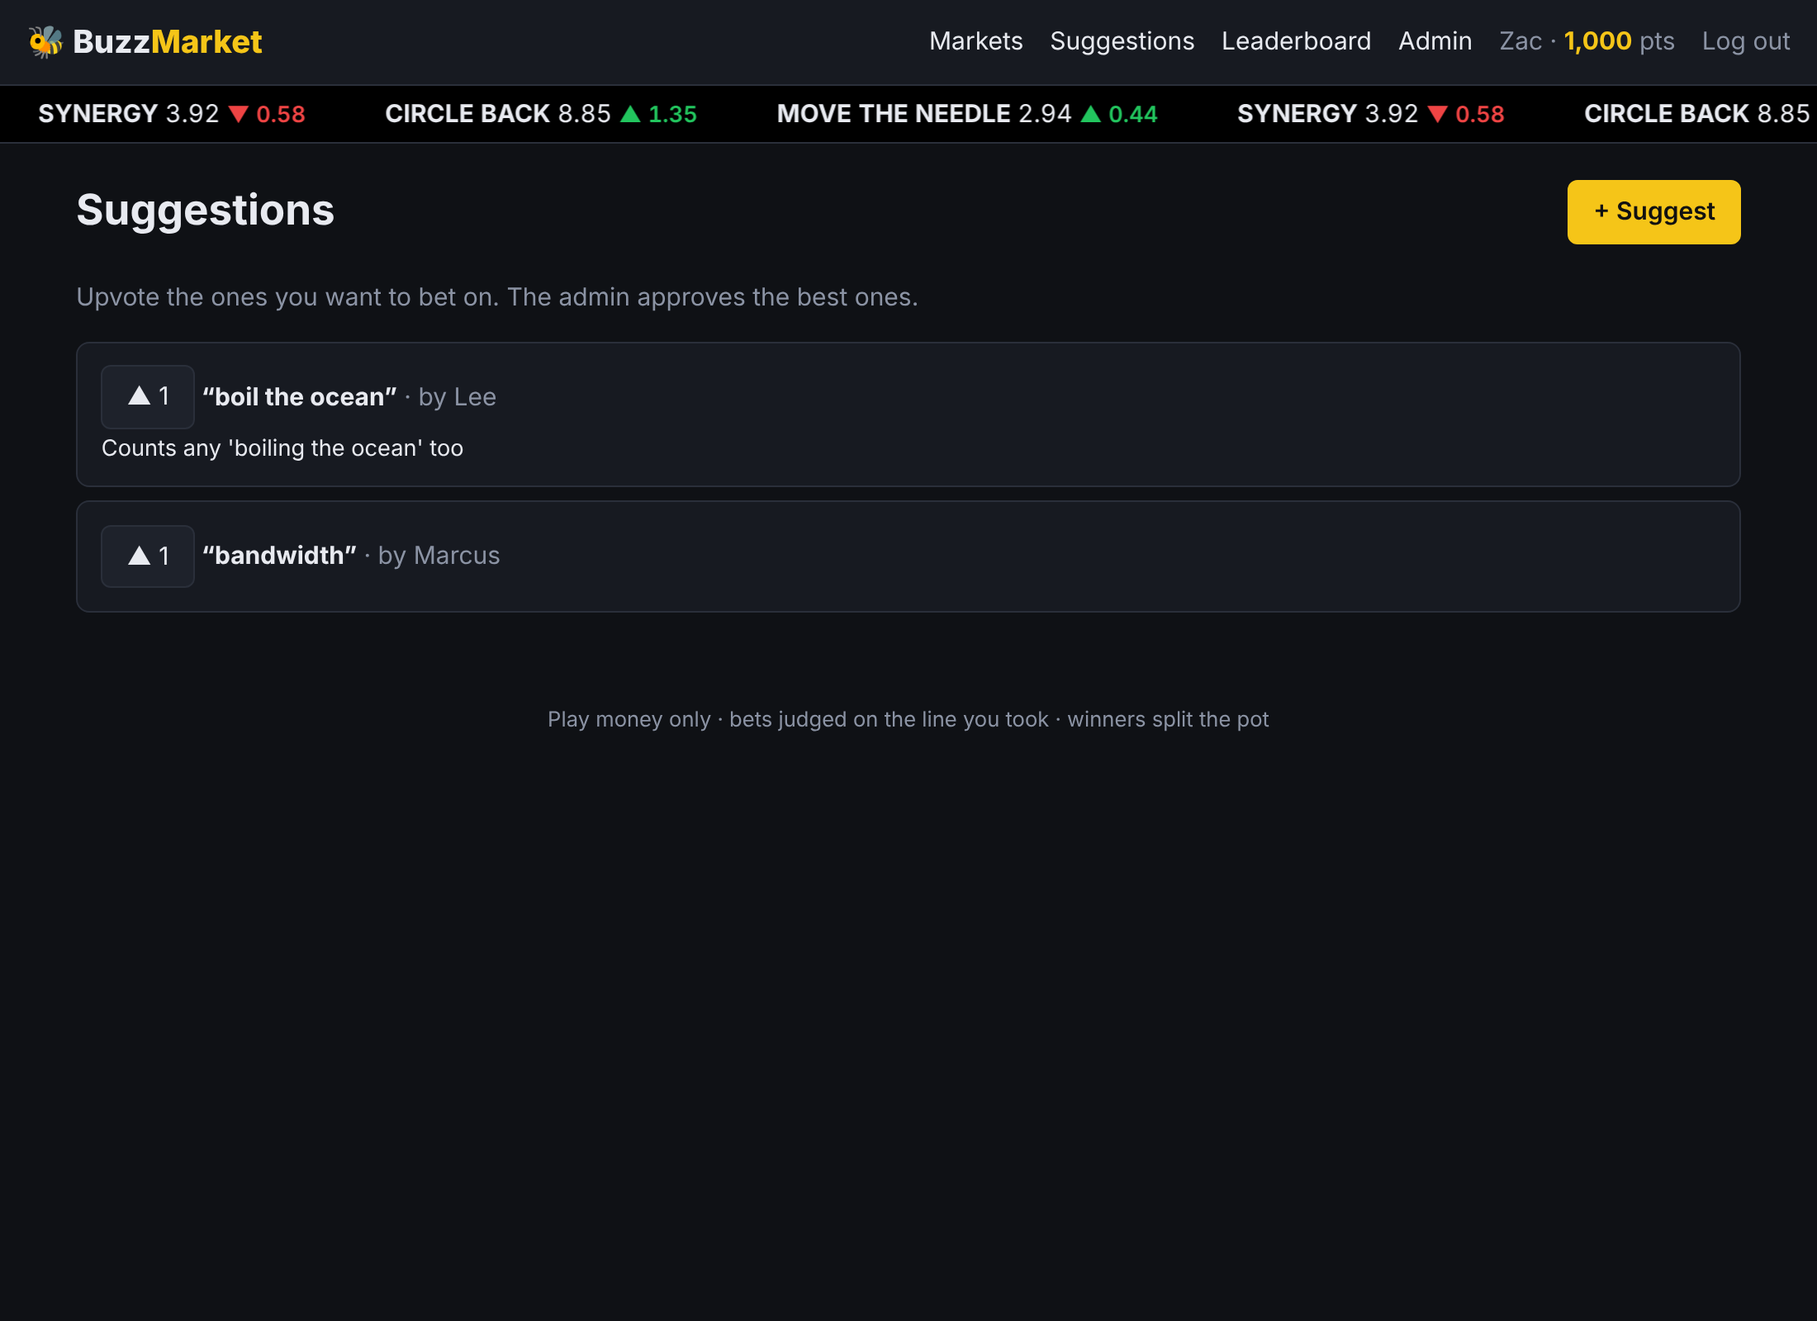
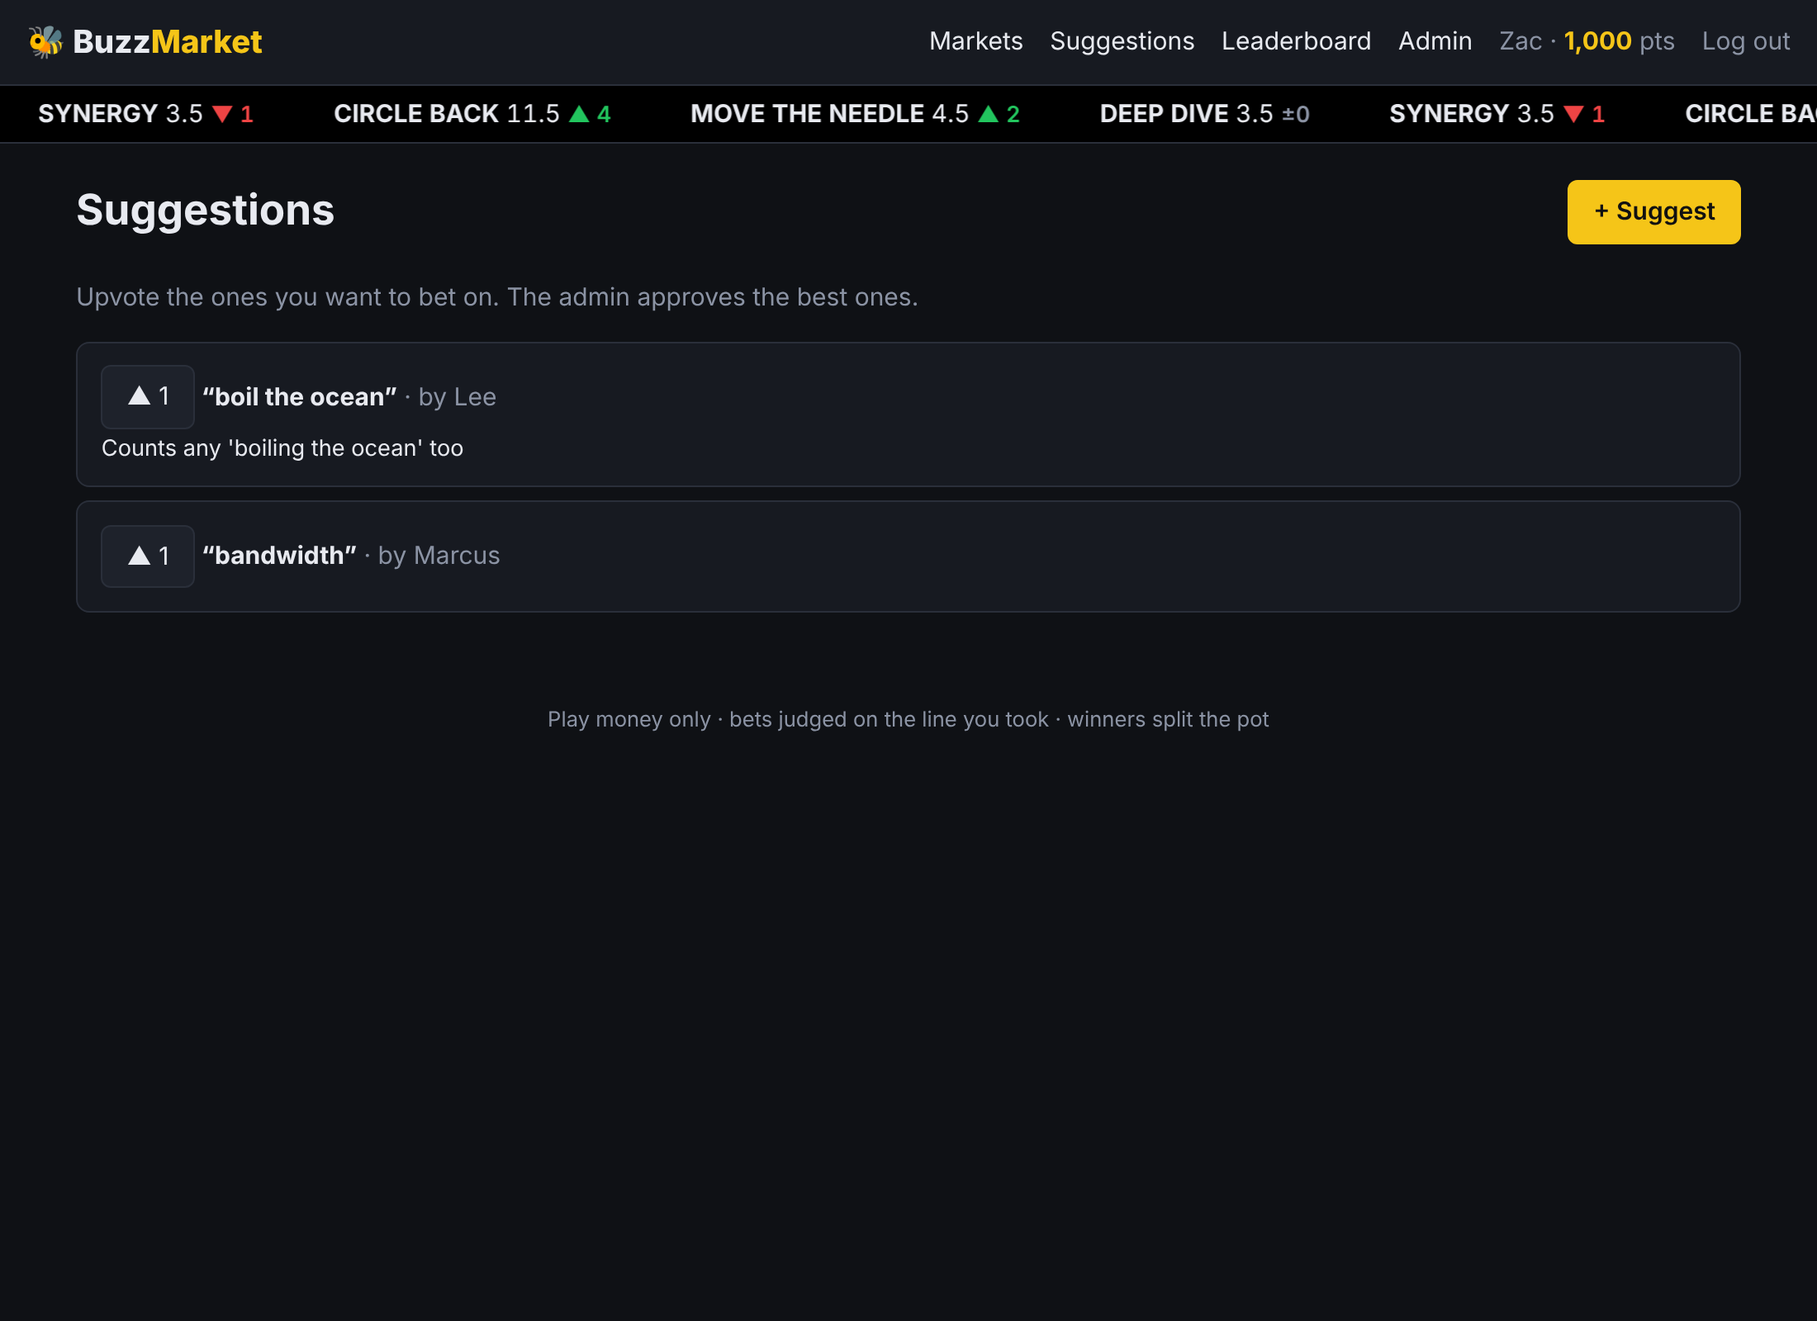
Keep lines on #.5 and move them in whole steps
Counts are whole numbers, so lines always sit on a half (no ties). Bets
build hidden pressure; the line jumps a full step when pressure crosses
the next whole number. Bet box shows points needed to tip it; chart
gridlines sit on #.5 values. Default step size is 400 net points.

Claude-Session: https://claude.ai/code/session_011Pia3449pt9Pwq98Fu3j73

Changed region(s): [[0.0927, 0.0625, 1.0, 0.0938]]

diff --git a/static/style.css b/static/style.css
@@ -70,7 +70,7 @@ button.vote.on { border-color: var(--accent); color: var(--accent); }
 .mpool { display: flex; gap: .8rem; font-size: .85rem; }
 .big { font-size: 1.8rem; font-weight: 700; font-variant-numeric: tabular-nums; }
 
-.chg { font-size: .85rem; font-weight: 600; font-variant-numeric: tabular-nums; }
+.chg { white-space: nowrap; font-size: .85rem; font-weight: 600; font-variant-numeric: tabular-nums; }
 .chg.up, .over, .win { color: var(--up); }
 .chg.down, .under, .lose { color: var(--down); }
 .chg.flat { color: var(--muted); }

diff --git a/buzz/views.py b/buzz/views.py
@@ -43,7 +43,7 @@ def change_badge(opening, line):
     if abs(d) < 0.005:
         return '<span class="chg flat">±0</span>'
     cls, arrow = ("up", "▲") if d > 0 else ("down", "▼")
-    return f'<span class="chg {cls}">{arrow} {abs(d):.2f}</span>'
+    return f'<span class="chg {cls}">{arrow} {fmt_line(abs(d))}</span>'
 
 
 def status_pill(status):
@@ -165,7 +165,7 @@ def home_page(req):
             action = ""
             if can:
                 action = (f'<form method="post" action="/m/{m["id"]}/guess" class="inline">{csrf_field(req)}'
-                          f'<input name="guess" type="number" step="0.5" min="0" placeholder="your guess" '
+                          f'<input name="guess" type="number" step="1" min="0" placeholder="your guess" '
                           f'value="{e(fmt_line(mine["guess"]) if mine else "")}" required>'
                           f'<button>{"Update" if mine else "Submit"}</button></form>')
             items.append(f'<li><a href="/m/{m["id"]}">“{e(m["phrase"])}”</a> '
@@ -216,6 +216,11 @@ def market_page(req, m):
         early_note = (f'<p class="early">🕐 Just opened: bets are capped at <b>{limit["max"]} pts</b> until '
                       f'{limit["early_bets"]} bets are in ({limit["left"]} to go), so nobody can yank the line early.</p>'
                       if limit["early"] else "")
+        move = market.points_to_move(m, db.get_int_setting(c, "liquidity"))
+        mv = [f'≈{pts(move["over"][0])} pts on <span class="over">over</span> moves it to {fmt_line(move["over"][1])}']
+        if move["under"]:
+            mv.append(f'≈{pts(move["under"][0])} pts on <span class="under">under</span> moves it to {fmt_line(move["under"][1])}')
+        move_note = f'<p class="small">Line moves in whole steps: {"; ".join(mv)}.</p>'
         mult_o = market.estimated_multiplier(pool, "over", 100)
         mult_u = market.estimated_multiplier(pool, "under", 100)
         parts.append(f"""<div class="card betbox">
@@ -228,8 +233,9 @@ def market_page(req, m):
       <button name="side" value="under" class="under">▼ Under {fmt_line(m['line'])}</button>
     </div>
   </form>
-  <p class="muted small">You have {pts(u['balance'])} pts. Your bet locks in the current line, then nudges the line
-  up (over) or down (under) for the next person. Rough payout if you win with 100 pts now:
+  {move_note}
+  <p class="muted small">You have {pts(u['balance'])} pts. Your bet locks in the current line. Bets push the line
+  up (over) or down (under) for the next person, one whole step at a time. Rough payout if you win with 100 pts now:
   over ≈ {mult_o:.2f}×, under ≈ {mult_u:.2f}×.</p>
 </div>""")
     elif m["status"] == "opening":
@@ -239,7 +245,7 @@ def market_page(req, m):
             parts.append(f"""<div class="card"><h2>Set the opening line</h2>
 <p>Blind guess: how many times will this be said? ({n} guesses so far.)</p>
 <form method="post" action="/m/{m['id']}/guess" class="row">{csrf_field(req)}<input type="hidden" name="next" value="/m/{m['id']}">
-<input name="guess" type="number" step="0.5" min="0" value="{e(fmt_line(mine['guess']) if mine else '')}" required>
+<input name="guess" type="number" step="1" min="0" value="{e(fmt_line(mine['guess']) if mine else '')}" required>
 <button class="primary">{'Update guess' if mine else 'Submit guess'}</button></form></div>""")
         else:
             parts.append(f'<div class="card"><p>Trusted users are setting the opening line ({n} guesses so far). '
@@ -383,11 +389,11 @@ def admin_page(req):
             f'<li id="m{m["id"]}"><b>“{e(m["phrase"])}”</b> <span class="muted">{e(m["meeting"])}</span>'
             f'<div class="small">Guesses: {glist}</div>'
             f'<div class="actions"><form method="post" action="/admin/m/{m["id"]}/open" class="inline">{csrf_field(req)}'
-            f'<input name="line" type="number" step="0.01" min="0" placeholder="line" value="{e(fmt_line(sug) if sug is not None else "")}">'
+            f'<input name="line" type="number" step="1" min="0.5" placeholder="e.g. 4.5" value="{e(fmt_line(sug) if sug is not None else "")}">'
             f'<button class="primary">Open betting</button></form>'
             f'{post_button(req, f"/admin/m/{m["id"]}/cancel", "Cancel", "danger", "Cancel this market?")}</div></li>')
     parts.append('<h2>Setting the opening line</h2><p class="muted small">Line defaults to the median guess '
-                 '(whole numbers get +0.5 so the opening line can’t tie). Edit it before opening if you like.</p>'
+                 '(rounded to the #.5 just above it, since counts are whole numbers). Edit it before opening if you like.</p>'
                  + (f'<ul class="list">{"".join(items)}</ul>' if opening else '<p class="muted">None.</p>'))
 
     # Live markets
@@ -414,7 +420,7 @@ def admin_page(req):
 <label>Phrase <input name="phrase" maxlength="80" required></label>
 <label>Meeting <input name="meeting" maxlength="80"></label>
 <label>Notes <textarea name="description" maxlength="300"></textarea></label>
-<label>Opening line (leave blank to let trusted users guess) <input name="line" type="number" step="0.01" min="0"></label>
+<label>Opening line (leave blank to let trusted users guess) <input name="line" type="number" step="1" min="0.5" placeholder="e.g. 4.5"></label>
 <button class="primary">Create</button></form></details>""")
 
     # Users
@@ -455,7 +461,7 @@ def admin_page(req):
 <label>Max bet (0 = no limit) <input name="max_bet" type="number" min="0" value="{e(s['max_bet'])}"></label>
 <label>Early-bet cap: max stake while a market is new (0 = off) <input name="early_max_bet" type="number" min="0" value="{e(s['early_max_bet'])}"></label>
 <label>…applies until this many bets are in <input name="early_bets" type="number" min="0" value="{e(s['early_bets'])}"></label>
-<label>Liquidity (higher = line moves less per bet) <input name="liquidity" type="number" min="1" value="{e(s['liquidity'])}"></label>
+<label>Points to move the line one step (net betting on one side; bigger lines move faster) <input name="liquidity" type="number" min="1" value="{e(s['liquidity'])}"></label>
 <button class="primary">Save settings</button></form>""")
     return layout(req, "Admin", "".join(parts), ticker=False)
 

diff --git a/buzz/market.py b/buzz/market.py
@@ -6,7 +6,10 @@ How a market works
 2. opening    - admin approves it. Trusted users submit blind guesses of the count.
 3. open       - admin opens betting. The opening line is the median guess
                 (admin may override). Users bet OVER or UNDER the *current* line.
-                Every bet nudges the line: OVER pushes it up, UNDER pushes it down.
+                Lines are always #.5 because we count whole occurrences, so a bet
+                can never tie. Every bet adds hidden "pressure" (OVER up, UNDER
+                down); once the pressure crosses the next whole number the line
+                jumps a full step to the next #.5.
 4. locked     - admin locks betting when the meeting starts.
 5. resolved   - admin enters the real count. Each bet is judged against the line
                 it was placed at. All losing stakes + winning stakes form one pot,
@@ -15,6 +18,7 @@ How a market works
                 everybody is refunded.
    cancelled  - admin can cancel any time before resolving; all bets refunded.
 """
+import math
 import statistics
 
 from . import db
@@ -103,13 +107,16 @@ def submit_guess(conn, market_id, user, guess):
         (market_id, user["id"], guess, db.now()))
 
 
+def snap(value):
+    """Counts are whole numbers, so every line sits on a half: 0.5, 1.5, 2.5 ..."""
+    return max(0, math.floor(value + 1e-9)) + 0.5
+
+
 def suggested_opening_line(conn, market_id):
     rows = conn.execute("SELECT guess FROM guesses WHERE market_id = ?", (market_id,)).fetchall()
     if not rows:
         return None
-    med = statistics.median(r["guess"] for r in rows)
-    # Use a half-point line so the opening line itself can't push.
-    return float(int(med)) + 0.5 if med == int(med) else round(med, 2)
+    return snap(statistics.median(r["guess"] for r in rows))
 
 
 def open_market(conn, market_id, line=None):
@@ -121,23 +128,45 @@ def open_market(conn, market_id, line=None):
         if line is None:
             raise MarketError("No guesses yet - enter an opening line manually.")
     try:
-        line = round(float(line), 2)
+        line = float(line)
     except (TypeError, ValueError):
         raise MarketError("Opening line must be a number.")
     if line < 0:
         raise MarketError("Opening line can't be negative.")
-    conn.execute("UPDATE markets SET status = 'open', opening_line = ?, line = ?, opened_at = ? WHERE id = ?",
-                 (line, line, db.now(), market_id))
+    line = snap(line)
+    # Pressure starts in the middle of the step, so it takes the same push to
+    # move the line up a step as down a step.
+    conn.execute("UPDATE markets SET status = 'open', opening_line = ?, line = ?, pressure = ?, opened_at = ? "
+                 "WHERE id = ?", (line, line, line, db.now(), market_id))
     _record_line(conn, market_id, line)
 
 
 # ---------------------------------------------------------------------- bets
 
+def pressure_per_point(line, liquidity):
+    """'liquidity' = points of net betting it takes to move a small line one full
+    step. Bigger lines move faster (a 20.5 line moves ~5x as easily as a 3.5),
+    since one extra occurrence matters less there."""
+    return max(1.0, line / 4) / max(liquidity, 1)
+
+
 def line_move(line, stake, side, liquidity):
-    """How far the line moves for a bet. Scales with the size of the line so a
-    100-point bet moves a 3.5 line a little and a 40.5 line a bit more."""
-    delta = (stake / max(liquidity, 1)) * max(1.0, line) * 0.5
+    """Change in hidden pressure for a bet."""
+    delta = stake * pressure_per_point(line, liquidity)
     return delta if side == "over" else -delta
+
+
+def points_to_move(m, liquidity):
+    """Rough points needed on each side to tip the line to the next step.
+    Returns {'over': (points, new_line), 'under': (points, new_line) or None}."""
+    p = m["pressure"] if m["pressure"] is not None else m["line"]
+    per = pressure_per_point(m["line"], liquidity)
+    base = math.floor(p + 1e-9)
+    up = math.ceil((base + 1 - p) / per)
+    out = {"over": (max(up, 1), m["line"] + 1), "under": None}
+    if m["line"] > 0.5:
+        out["under"] = (max(math.floor((p - base) / per) + 1, 1), m["line"] - 1)
+    return out
 
 
 def place_bet(conn, market_id, user, side, stake):
@@ -165,8 +194,10 @@ def place_bet(conn, market_id, user, side, stake):
     conn.execute("INSERT INTO bets(market_id, user_id, side, stake, line, created_at) VALUES (?, ?, ?, ?, ?, ?)",
                  (market_id, user["id"], side, stake, line, db.now()))
     _ledger(conn, user["id"], -stake, f"Bet {side.upper()} {line:g} on \"{m['phrase']}\"")
-    new_line = round(max(0.0, line + line_move(line, stake, side, db.get_int_setting(conn, "liquidity"))), 2)
-    conn.execute("UPDATE markets SET line = ? WHERE id = ?", (new_line, market_id))
+    pressure = m["pressure"] if m["pressure"] is not None else line
+    pressure = round(max(0.0, pressure + line_move(line, stake, side, db.get_int_setting(conn, "liquidity"))), 6)
+    new_line = snap(pressure)
+    conn.execute("UPDATE markets SET line = ?, pressure = ? WHERE id = ?", (new_line, pressure, market_id))
     _record_line(conn, market_id, new_line)
     return line, new_line
 

diff --git a/tests/test_buzz.py b/tests/test_buzz.py
@@ -103,6 +103,28 @@ class FlowTests(unittest.TestCase):
         self.assertEqual(self.user(self.t1)["balance"], 900)
         self.assertEqual(len(market.history(c, mid)), 3)
 
+    def test_lines_are_half_points_and_move_whole_steps(self):
+        c = self.conn
+        self.assertEqual([market.snap(x) for x in (0, 3, 3.5, 3.9, 4)], [0.5, 3.5, 3.5, 3.5, 4.5])
+        with db.transaction(c):
+            db.set_setting(c, "liquidity", 200)  # 200 net points = one step on a small line
+            mid = market.suggest(c, self.u, "bandwidth")
+            market.approve(c, mid)
+            market.open_market(c, mid, 3.2)  # admin typed 3.2 -> snapped
+            self.assertEqual(market.get_market(c, mid)["line"], 3.5)
+            joe = self.user(self.u)
+            self.assertEqual(market.place_bet(c, mid, joe, "over", 50), (3.5, 3.5))   # not enough yet
+            self.assertEqual(market.points_to_move(market.get_market(c, mid), 200)["over"], (50, 4.5))
+            self.assertEqual(market.place_bet(c, mid, joe, "over", 50), (3.5, 4.5))   # +100 total -> step up
+            self.assertEqual(market.place_bet(c, mid, joe, "under", 1), (4.5, 3.5))   # just below 4 -> back down
+            for _ in range(8):
+                market.place_bet(c, mid, joe, "under", 100)
+            m = market.get_market(c, mid)
+            self.assertEqual(m["line"], 0.5)          # never below 0.5
+            self.assertIsNone(market.points_to_move(m, 200)["under"])
+            lines = [r["line"] for r in c.execute("SELECT line FROM line_history WHERE market_id = ?", (mid,))]
+            self.assertTrue(all(x % 1 == 0.5 for x in lines), lines)
+
     def test_early_bet_cap(self):
         c = self.conn
         with db.transaction(c):

diff --git a/buzz/charts.py b/buzz/charts.py
@@ -1,12 +1,14 @@
 """Tiny server-side SVG charts, so the browser needs no chart library."""
+import math
 import time
 from html import escape
 
 
 def _scale(values, lo_px, hi_px):
     lo, hi = min(values), max(values)
-    if hi - lo < 1e-9:
-        lo, hi = lo - 1, hi + 1
+    if hi - lo < 1:
+        mid = (hi + lo) / 2
+        lo, hi = mid - 1, mid + 1
     pad = (hi - lo) * 0.12
     lo, hi = lo - pad, hi + pad
     return lo, hi, lambda v: hi_px - (v - lo) / (hi - lo) * (hi_px - lo_px)
@@ -54,11 +56,15 @@ def line_chart(points, opening=None, actual=None, width=640, height=240):
     out = [f'<svg class="chart {trend_class(points)}" viewBox="0 0 {width} {height}" '
            f'role="img" aria-label="Line history">']
     # grid + y labels
-    for k in range(5):
-        v = lo + (hi - lo) * k / 4
-        yy = y(v)
-        out.append(f'<line class="grid" x1="{left}" x2="{width - right}" y1="{yy:.1f}" y2="{yy:.1f}"/>')
-        out.append(f'<text class="axis" x="{left - 6}" y="{yy + 4:.1f}" text-anchor="end">{v:.1f}</text>')
+    # Gridlines sit on the real #.5 lines, thinned out if the range is wide.
+    step = max(1, math.ceil((hi - lo) / 6))
+    v = math.floor(lo) + 0.5
+    while v <= hi:
+        if v >= lo:
+            yy = y(v)
+            out.append(f'<line class="grid" x1="{left}" x2="{width - right}" y1="{yy:.1f}" y2="{yy:.1f}"/>')
+            out.append(f'<text class="axis" x="{left - 6}" y="{yy + 4:.1f}" text-anchor="end">{v:g}</text>')
+        v += step
     if opening is not None:
         yy = y(opening)
         out.append(f'<line class="opening" x1="{left}" x2="{width - right}" y1="{yy:.1f}" y2="{yy:.1f}"/>')

diff --git a/buzz/db.py b/buzz/db.py
@@ -43,6 +43,7 @@ CREATE TABLE IF NOT EXISTS markets (
     status TEXT NOT NULL DEFAULT 'suggested',
     opening_line REAL,
     line REAL,
+    pressure REAL,        -- hidden, continuous; line = floor(pressure) + 0.5
     actual INTEGER,
     created_at REAL NOT NULL,
     opened_at REAL,
@@ -93,8 +94,8 @@ CREATE TABLE IF NOT EXISTS ledger (
 DEFAULT_SETTINGS = {
     "invite_code": "buzzword",
     "starting_balance": "1000",
-    # Bigger = line moves less per point bet.
-    "liquidity": "2000",
+    # Net points of betting needed to move a small line one full step.
+    "liquidity": "400",
     "max_bet": "500",
     # Smaller cap while a market is brand new, so one early bet can't
     # yank the line or dominate a tiny pot. 0 turns it off.
@@ -114,6 +115,10 @@ def connect(path=None):
 
 def init(conn):
     conn.executescript(SCHEMA)
+    cols = {r["name"] for r in conn.execute("PRAGMA table_info(markets)")}
+    if "pressure" not in cols:  # upgrade older databases
+        conn.execute("ALTER TABLE markets ADD COLUMN pressure REAL")
+        conn.execute("UPDATE markets SET pressure = line")
     for k, v in DEFAULT_SETTINGS.items():
         conn.execute("INSERT OR IGNORE INTO settings(key, value) VALUES (?, ?)", (k, v))
 

diff --git a/README.md b/README.md
@@ -11,17 +11,19 @@ to install**, no build step, and roughly 20 MB of RAM.
 1. **Suggest**: anyone can suggest a buzzword (and which meeting it's for). Others upvote suggestions.
 2. **Approve**: the admin approves the good ones.
 3. **Opening line**: users you mark as *trusted* submit a blind guess of the count. The median becomes
-   the opening line (a whole number gets +0.5 so the opening line can't tie). You can override it.
-4. **Betting**: players bet OVER or UNDER the current line. Each bet locks in the line it was placed at,
-   then nudges the line up (over) or down (under). While a market is brand new
+   the opening line, rounded to a #.5 (a median of 4 → 4.5). You can override it.
+4. **Betting**: players bet OVER or UNDER the current line. Since we're counting whole occurrences, the
+   line is **always a #.5** (2.5, 3.5, 4.5 …), so a bet can never tie. Each bet locks in the line it was
+   placed at, then adds hidden "pressure" up (over) or down (under). When enough net betting builds up,
+   the line moves a **full step of 1**. The bet box shows roughly how many points would tip it
+   either way. By default, 400 net points move a small line one step; bigger lines move faster. While a market is brand new
    (its first 5 bets), stakes are capped at 100 points so one early bet can't yank the line or hog a
    tiny pot. The scrolling ticker, the sparklines and the
    per-market chart show where the line is heading.
 5. **Lock**: lock betting when the meeting starts.
 6. **Resolve**: enter how many times it was actually said. Every bet is judged against *its own* line.
    All stakes form one pot, and the winners split it in proportion to their stakes (pari-mutuel).
-   A bet whose line exactly equals the count is a push and gets refunded. If nobody wins, everyone is
-   refunded. Cancelling a market refunds every bet.
+   If nobody wins, everyone is refunded. Cancelling a market refunds every bet.
 
 Everyone starts with 1,000 points (you can change this). The leaderboard ranks players by net worth
 (cash plus points in open bets).
@@ -40,7 +42,7 @@ Players can join two ways:
   it later on their account page.
 
 Also under Admin: make users trusted, adjust balances, reset passwords, disable accounts, set the
-max bet, set the early-bet cap (amount and number of bets; 0 turns it off), and set *liquidity* (higher means each bet moves the line less).
+max bet, set the early-bet cap (amount and number of bets; 0 turns it off), and set how many net points it takes to move the line one step.
 
 ## Raspberry Pi setup
 
